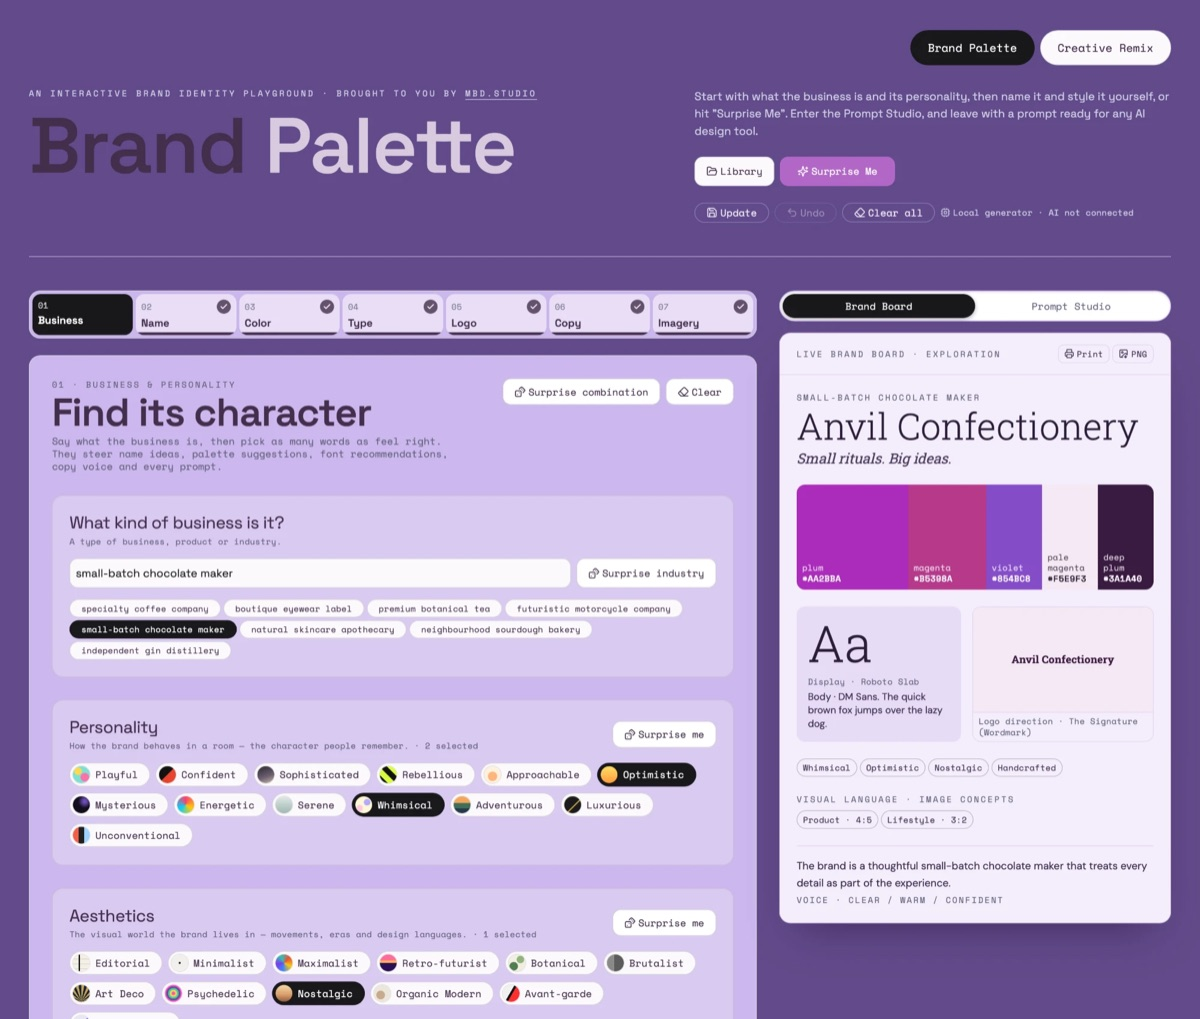
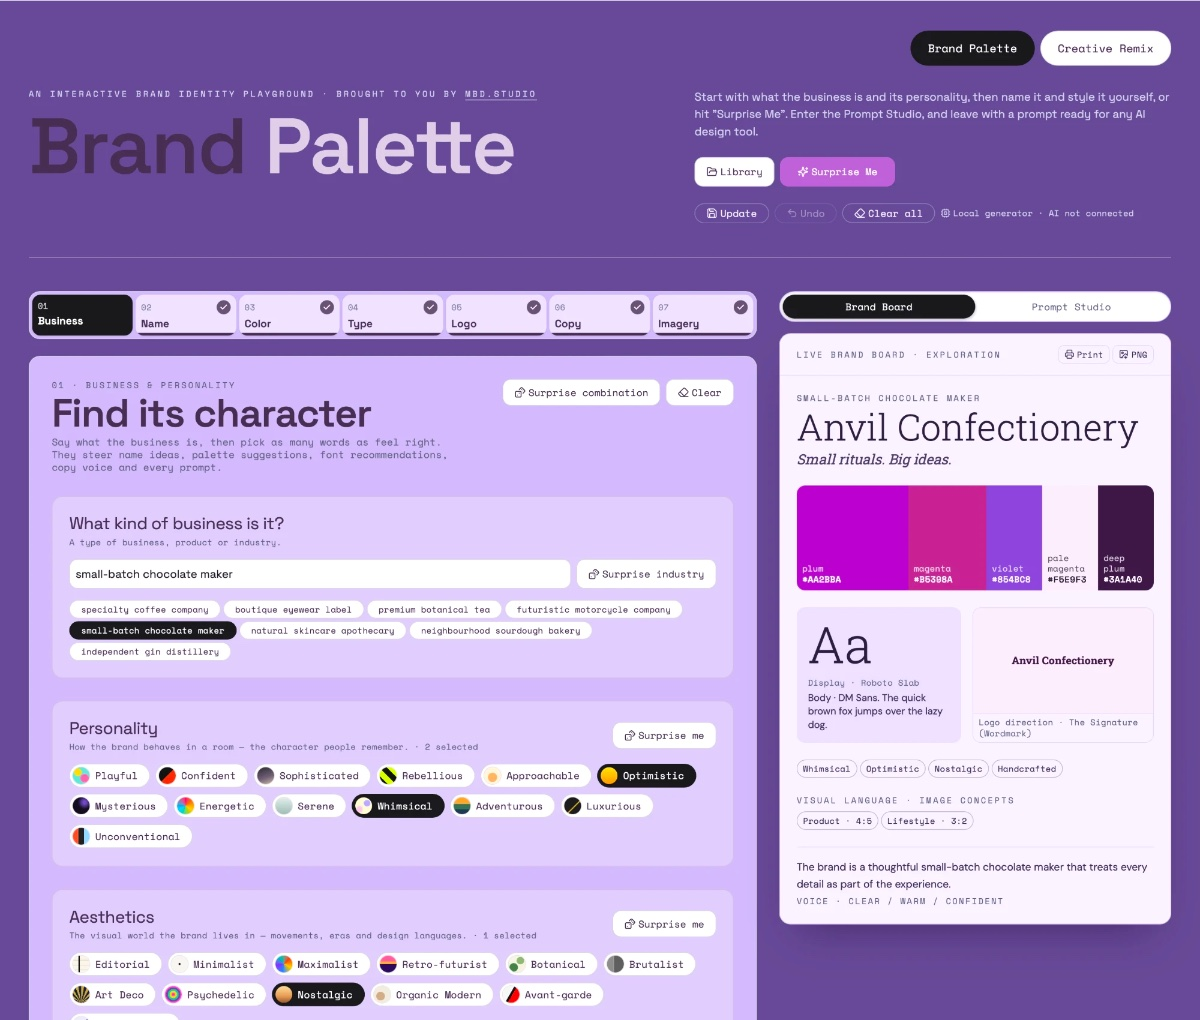
Apps screenshots: brighter, more saturated JPEG exports everywhere

diff --git a/palette/client/components/RequireAccess.tsx b/palette/client/components/RequireAccess.tsx
@@ -2,8 +2,8 @@ import { useEffect, useState, type FormEvent, type ReactNode } from "react";
 import { Link } from "react-router-dom";
 import { captureTokenFromUrl, checkAccess, resendLink, startCheckout } from "../lib/access";
 import { APPS_PRODUCT, SITE_URL } from "../lib/config";
-import shotBrand from "../assets/shot-brand.webp";
-import shotRemix from "../assets/shot-remix.webp";
+import shotBrand from "../assets/shot-brand.jpg";
+import shotRemix from "../assets/shot-remix.jpg";
 
 type State = "checking" | "ok" | "locked";
 

diff --git a/src/app/pages/ThankYouPage.tsx b/src/app/pages/ThankYouPage.tsx
@@ -4,8 +4,8 @@ import { toast } from "sonner";
 import { Navigation } from "../components/Navigation";
 import { Footer } from "../components/Footer";
 import { projectId, publicAnonKey } from "../utils/supabase/info";
-import appsBrand from "../../assets/apps-brand.webp";
-import appsRemix from "../../assets/apps-remix.webp";
+import appsBrand from "../../assets/apps-brand.jpg";
+import appsRemix from "../../assets/apps-remix.jpg";
 
 const SUPABASE_URL =
   import.meta.env.VITE_SUPABASE_URL || `https://${projectId}.supabase.co`;

diff --git a/src/app/pages/BrandPaletteRemixPage.tsx b/src/app/pages/BrandPaletteRemixPage.tsx
@@ -1,8 +1,8 @@
 import { useState } from "react";
 import { Link } from "react-router-dom";
 import { toast } from "sonner";
-import appsBrand from "../../assets/apps-brand.webp";
-import appsRemix from "../../assets/apps-remix.webp";
+import appsBrand from "../../assets/apps-brand.jpg";
+import appsRemix from "../../assets/apps-remix.jpg";
 import { Navigation } from "../components/Navigation";
 import { Footer } from "../components/Footer";
 import { projectId, publicAnonKey } from "../utils/supabase/info";

diff --git a/src/app/components/GetTheGoods.tsx b/src/app/components/GetTheGoods.tsx
@@ -2,7 +2,7 @@ import { Link } from "react-router-dom";
 import titleImage from "figma:asset/928688118246c11022dd32ad61b41c1dc858b9d5.png";
 import aiHandbookCover from "../../assets/AI-handbook-cover.png";
 import claudeBookCover from "../../assets/claude-book-cover.png";
-import appsBrand from "../../assets/apps-brand.webp";
+import appsBrand from "../../assets/apps-brand.jpg";
 import { Navigation } from "./Navigation";
 
 interface Product {

diff --git a/palette/client/components/AppsCard.tsx b/palette/client/components/AppsCard.tsx
@@ -1,5 +1,5 @@
 import { APPS_PRODUCT } from "../lib/config";
-import preview from "../assets/shot-brand.webp";
+import preview from "../assets/shot-brand.jpg";
 
 /** Sits above "Your direction" on the free Palette: the two paid apps, one button. */
 export function AppsCard() {
